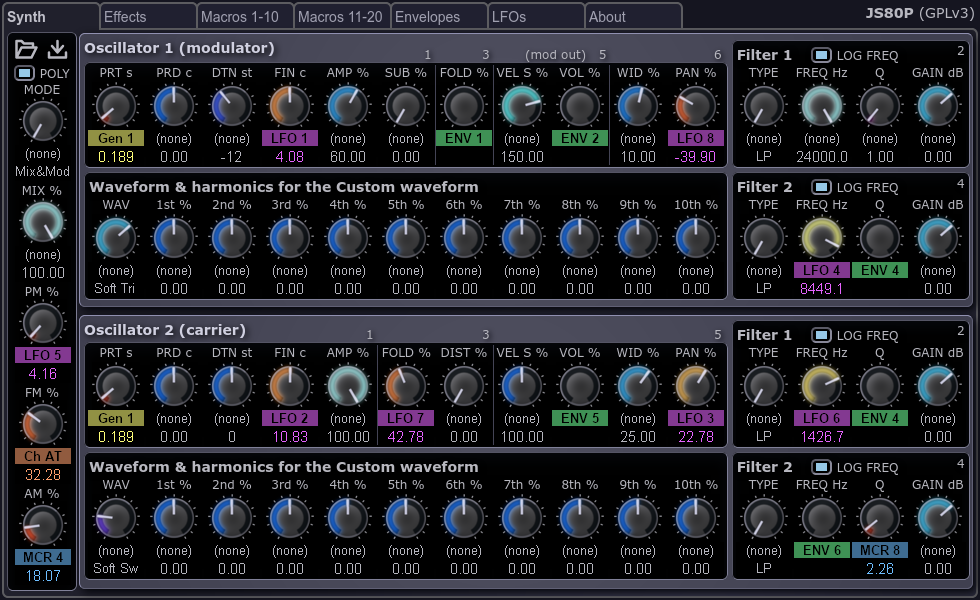
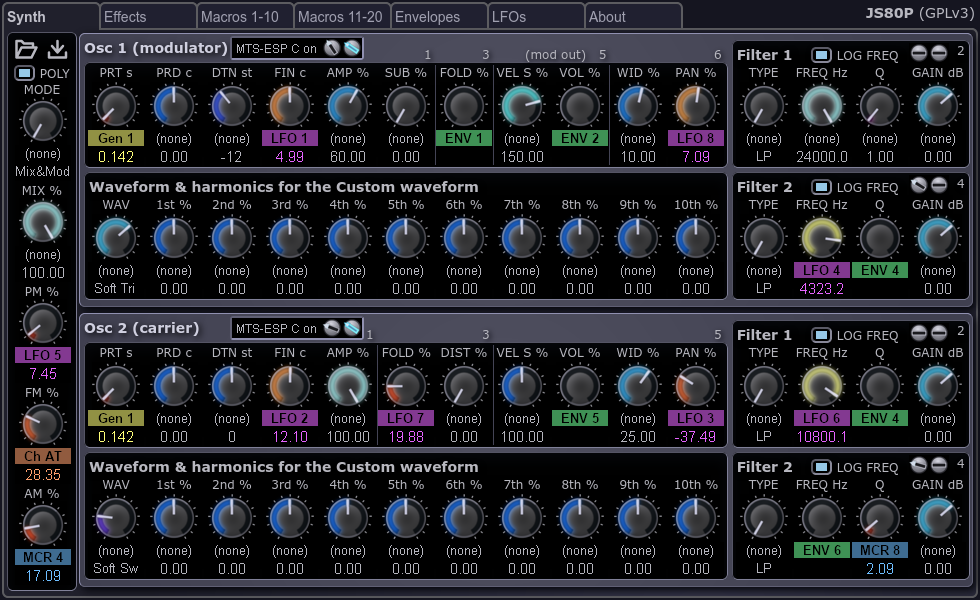
publish v2.4.0

diff --git a/index.html b/index.html
@@ -231,7 +231,7 @@ small {
     </div>
 
     <div id="download">
-      <h2 class="center">Download (v2.3.2)</h2>
+      <h2 class="center">Download (v2.4.0)</h2>
       <div class="section">
         <p class="center">
           <a href="#faq-which">Which distribution should I download?</a>
@@ -245,27 +245,27 @@ small {
               <h4>Windows and Linux, 64 bit</h4>
               <ul>
                 <li>
-                  VST 3 Bundle: <a href="https://github.com/attilammagyar/js80p/releases/download/v2.3.2/js80p-2_3_2-avx-vst3_bundle.zip">Download (3.5M)</a>
+                  VST 3 Bundle: <a href="https://github.com/attilammagyar/js80p/releases/download/v2.4.0/js80p-2_4_0-avx-vst3_bundle.zip">Download (3.9M)</a>
                 </li>
               </ul>
 
               <h4>Windows</h4>
               <ul>
                 <li>
-                  64-bit, VST 3 Single File: <a href="https://github.com/attilammagyar/js80p/releases/download/v2.3.2/js80p-2_3_2-windows-64bit-avx-vst3_single_file.zip">Download (2.0M)</a>
+                  64-bit, VST 3 Single File: <a href="https://github.com/attilammagyar/js80p/releases/download/v2.4.0/js80p-2_4_0-windows-64bit-avx-vst3_single_file.zip">Download (2.2M)</a>
                 </li>
                 <li>
-                  64-bit, FST (VST 2.4): <a href="https://github.com/attilammagyar/js80p/releases/download/v2.3.2/js80p-2_3_2-windows-64bit-avx-fst.zip">Download (1.8M)</a>
+                  64-bit, FST (VST 2.4): <a href="https://github.com/attilammagyar/js80p/releases/download/v2.4.0/js80p-2_4_0-windows-64bit-avx-fst.zip">Download (2.0M)</a>
                 </li>
               </ul>
 
               <h4>Linux</h4>
               <ul>
                 <li>
-                  64-bit, VST 3 Single File: <a href="https://github.com/attilammagyar/js80p/releases/download/v2.3.2/js80p-2_3_2-linux-64bit-avx-vst3_single_file.zip">Download (1.4M)</a>
+                  64-bit, VST 3 Single File: <a href="https://github.com/attilammagyar/js80p/releases/download/v2.4.0/js80p-2_4_0-linux-64bit-avx-vst3_single_file.zip">Download (1.6M)</a>
                 </li>
                 <li>
-                  64-bit, FST (VST 2.4): <a href="https://github.com/attilammagyar/js80p/releases/download/v2.3.2/js80p-2_3_2-linux-64bit-avx-fst.zip">Download (1.2M)</a>
+                  64-bit, FST (VST 2.4): <a href="https://github.com/attilammagyar/js80p/releases/download/v2.4.0/js80p-2_4_0-linux-64bit-avx-fst.zip">Download (1.4M)</a>
                 </li>
               </ul>
             </div>
@@ -278,39 +278,39 @@ small {
               <h4>Windows and Linux, 64 bit and 32 bit</h4>
               <ul>
                 <li>
-                  VST 3 Bundle: <a href="https://github.com/attilammagyar/js80p/releases/download/v2.3.2/js80p-2_3_2-sse2-vst3_bundle.zip">Download (8.0M)</a>
+                  VST 3 Bundle: <a href="https://github.com/attilammagyar/js80p/releases/download/v2.4.0/js80p-2_4_0-sse2-vst3_bundle.zip">Download (9.0M)</a>
                 </li>
               </ul>
 
               <h4>Windows</h4>
               <ul>
                 <li>
-                  64-bit, VST 3 Single File: <a href="https://github.com/attilammagyar/js80p/releases/download/v2.3.2/js80p-2_3_2-windows-64bit-sse2-vst3_single_file.zip">Download (2.0M)</a>
+                  64-bit, VST 3 Single File: <a href="https://github.com/attilammagyar/js80p/releases/download/v2.4.0/js80p-2_4_0-windows-64bit-sse2-vst3_single_file.zip">Download (2.3M)</a>
                 </li>
                 <li>
-                  64-bit, FST (VST 2.4): <a href="https://github.com/attilammagyar/js80p/releases/download/v2.3.2/js80p-2_3_2-windows-64bit-sse2-fst.zip">Download (1.8M)</a>
+                  64-bit, FST (VST 2.4): <a href="https://github.com/attilammagyar/js80p/releases/download/v2.4.0/js80p-2_4_0-windows-64bit-sse2-fst.zip">Download (2.0M)</a>
                 </li>
                 <li>
-                  32-bit, VST 3 Single File: <a href="https://github.com/attilammagyar/js80p/releases/download/v2.3.2/js80p-2_3_2-windows-32bit-sse2-vst3_single_file.zip">Download (2.1M)</a>
+                  32-bit, VST 3 Single File: <a href="https://github.com/attilammagyar/js80p/releases/download/v2.4.0/js80p-2_4_0-windows-32bit-sse2-vst3_single_file.zip">Download (2.3M)</a>
                 </li>
                 <li>
-                  32-bit, FST (VST 2.4): <a href="https://github.com/attilammagyar/js80p/releases/download/v2.3.2/js80p-2_3_2-windows-32bit-sse2-fst.zip">Download (1.8M)</a>
+                  32-bit, FST (VST 2.4): <a href="https://github.com/attilammagyar/js80p/releases/download/v2.4.0/js80p-2_4_0-windows-32bit-sse2-fst.zip">Download (2.0M)</a>
                 </li>
               </ul>
 
               <h4>Linux</h4>
               <ul>
                 <li>
-                  64-bit, VST 3 Single File: <a href="https://github.com/attilammagyar/js80p/releases/download/v2.3.2/js80p-2_3_2-linux-64bit-sse2-vst3_single_file.zip">Download (1.4M)</a>
+                  64-bit, VST 3 Single File: <a href="https://github.com/attilammagyar/js80p/releases/download/v2.4.0/js80p-2_4_0-linux-64bit-sse2-vst3_single_file.zip">Download (1.6M)</a>
                 </li>
                 <li>
-                  64-bit, FST (VST 2.4): <a href="https://github.com/attilammagyar/js80p/releases/download/v2.3.2/js80p-2_3_2-linux-64bit-sse2-fst.zip">Download (1.2M)</a>
+                  64-bit, FST (VST 2.4): <a href="https://github.com/attilammagyar/js80p/releases/download/v2.4.0/js80p-2_4_0-linux-64bit-sse2-fst.zip">Download (1.4M)</a>
                 </li>
                 <li>
-                  32-bit, VST 3 Single File: <a href="https://github.com/attilammagyar/js80p/releases/download/v2.3.2/js80p-2_3_2-linux-32bit-sse2-vst3_single_file.zip">Download (1.4M)</a>
+                  32-bit, VST 3 Single File: <a href="https://github.com/attilammagyar/js80p/releases/download/v2.4.0/js80p-2_4_0-linux-32bit-sse2-vst3_single_file.zip">Download (1.6M)</a>
                 </li>
                 <li>
-                  32-bit, FST (VST 2.4): <a href="https://github.com/attilammagyar/js80p/releases/download/v2.3.2/js80p-2_3_2-linux-32bit-sse2-fst.zip">Download (1.2M)</a>
+                  32-bit, FST (VST 2.4): <a href="https://github.com/attilammagyar/js80p/releases/download/v2.4.0/js80p-2_4_0-linux-32bit-sse2-fst.zip">Download (1.4M)</a>
                 </li>
               </ul>
             </div>
@@ -320,12 +320,24 @@ small {
         <h3>Source Code</h3>
         <ul>
           <li>
-            Source: <a href="https://github.com/attilammagyar/js80p/releases/download/v2.3.2/js80p-2_3_2-src.zip">Download (8.0M)</a>
+            Source: <a href="https://github.com/attilammagyar/js80p/releases/download/v2.4.0/js80p-2_4_0-src.zip">Download (8.2M)</a>
           </li>
         </ul>
       </div>
 
       <div class="section">
+        <h3>What's New in v2.4.0</h3>
+        <ul>
+          <li><p>Support for microtonal and any other tunings via MTS-ESP, one-click switch
+          between 440 Hz and 432 Hz equal temperament tunings.</p></li>
+          <li><p>Analog inaccuracy and instability emulation for oscillator pitch, and
+          inaccuracy settings for filter frequency and Q factor, and envelope time and
+          level.</p></li>
+          <li><p>New presets: Gloomy Brass, Gloomy Brass Raindrops, Sawyer.</p></li>
+          <li><p>Bugfix: the typo in the label of the dynamic envelope toggle has been
+          corrected.</p></li>
+        </ul>
+
         <h3>What's New in v2.3.2</h3>
         <ul>
           <li><p>New preset: Dystopian Cathedral.</p></li>
@@ -584,6 +596,98 @@ small {
             </p>
           </li>
         </ul>
+      </div>
+
+      <div class="section">
+        <h3>Tuning</h3>
+        <p>
+          Each oscillator can be tuned separately by clicking on the tuning selector in
+          the title bar of the oscillator. The following options are available:
+        </p>
+        <ul>
+          <li>
+            <p>
+              <code>MTS-ESP C</code>: continuously query information from an MTS-ESP tuning provider
+              (usually another plugin) when at least one note is playing, and update the
+              frequency of all sounding notes that haven't reached the Release portion of
+              their volume envelopes yet, on the fly. The tuning selector displays "<code>on</code>"
+              when a tuning provider is available, and "<code>off</code>" when no tuning provider is
+              found.  In the latter case, notes will fall back to 440 Hz 12 tone equal
+              temperament.
+            </p>
+          </li>
+          <li>
+            <p>
+              <code>MTS-ESP N</code>: query tuning information from an MTS-ESP tuning provider
+              (usually another plugin) for evey <code>NOTE ON</code> MIDI event. Already sounding
+              notes are kept unchanged. The tuning selector displays "<code>on</code>" when a tuning
+              provider is available, and "<code>off</code>" when no tuning provider is found. In the
+              latter case, new notes will fall back to 440 Hz 12 tone equal temperament.
+            </p>
+          </li>
+          <li>
+            <p>
+              <code>440 12TET</code>: the usual <a href="https://en.wikipedia.org/wiki/Equal_temperament">12 tone equal temperament</a>
+              tuning, where the <code>A4</code> MIDI note is 440 Hz.
+            </p>
+          </li>
+          <li>
+            <p>
+              <code>432 12TET</code>: 12 tone equal temperament with <code>A4</code> set to 432 Hz.
+            </p>
+          </li>
+        </ul>
+        <h4>Setting up MTS-ESP on Windows</h4>
+        <p>
+          Download and install either the free <a href="https://oddsound.com/mtsespmini.php">MTS-ESP MINI</a>
+          plugin or the paid <a href="https://oddsound.com/mtsespsuite.php">MTS-ESP SUITE</a> plugin
+          by <a href="https://oddsound.com/">ODDSOUND</a>. Follow the instuctions on the website,
+          where you can also find the User Guide documentation for each product.
+        </p>
+        <p>
+          Note: it is possible to use a different tuning provider without installing any
+          of the above plugins, but you may have to manually download the <code>LIBMTS.dll</code>
+          library from the <a href="https://github.com/ODDSound/MTS-ESP/tree/main/libMTS/Win">ODDSound/MTS-ESP GitHub repository</a>,
+          and put it in a folder where Windows can find it:
+        </p>
+        <ul>
+          <li>
+            <p>On 64 bit Windows:</p>
+            <ul>
+              <li>
+                <p>
+                  put the 64 bit DLL into the <code>Program Files\Common Files\MTS-ESP</code> folder,
+                </p>
+              </li>
+              <li>
+                <p>
+                  put the 32 bit DLL into the <code>Program Files (x86)\Common Files\MTS-ESP</code>
+                  folder.
+                </p>
+              </li>
+            </ul>
+          </li>
+          <li>
+            <p>
+              On 32 bit Windows, put the 32 bit version of <code>LIBMTS.dll</code> into the
+              <code>Program Files\Common Files\MTS-ESP</code> folder.
+            </p>
+          </li>
+        </ul>
+        <h4>Setting up MTS-ESP on Linux</h4>
+        <p>
+          As of November, 2023, there is no official distribution of the MTS-ESP tuning
+          provider plugins by <a href="https://oddsound.com/">ODDSOUND</a> for Linux, however, there
+          are plugins which can act as a tuning provider, for example,
+          <a href="https://surge-synthesizer.github.io/">Surge XT</a>.
+        </p>
+        <p>
+          To use MTS-ESP, you may have to download the <code>libMTS.so</code> library from the
+          <a href="https://github.com/ODDSound/MTS-ESP/tree/main/libMTS/Linux">ODDSound/MTS-ESP GitHub repository</a>,
+          and put it in the <code>/usr/local/lib</code> directory, if it is not already installed on
+          your system. As of November, 2023, <code>libMTS.so</code> is only available for <code>x86_64</code>
+          Linux systems.
+        </p>
       </div>
 
       <div class="section">
@@ -864,6 +968,35 @@ small {
           <p>Play softly and this futuristic organ-like patch will sound smooth as butter,
           but when you start playing with more force, the sound will become angry, fat,
           and in-your-face. The mod wheel increases the level of madness.</p>
+
+          <a id="preset-gloomy-brass"></a>
+
+          <h4>Gloomy Brass</h4>
+
+          <p>Turn the mod wheel down for a soft, warm, and fat sound, turn it up for
+          brassy swells, distortion, and reverb. Aftertouch adds some harshness and
+          vibrato.</p>
+
+          <a id="preset-gloomy-brass-raindrops"></a>
+
+          <h4>Gloomy Brass Raindrops</h4>
+
+          <p>A version of Gloomy Brass where each note is followed by a raindrop after a
+          random amount of time.</p>
+
+          <a id="preset-sawyer"></a>
+
+          <h4>Sawyer</h4>
+
+          <p>Recreation of the iconic bass and lead sound from Tom Sawyer by Rush. Notes
+          below middle C will do the well-known resonance sweep and then turn into a
+          dark growl (which you can spice up with the mod wheel and some aftertouch),
+          and notes above middle C will be bright, but will lose much of their
+          brightness while doing a huge vibrato when you turn up the mod wheel or apply
+          aftertouch. (Note that this is not a split-keyboard patch, because both
+          oscillators are required to make this sound good in stereo - instead, the
+          effect is achieved through trickery with the Note controller and the
+          Distortion knob of Macro 12 and 13.)</p>
         </div>
       </div>
     </div>
@@ -919,6 +1052,16 @@ small {
             </ul>
           </li>
           <li>subharmonic sine wave for oscillator 1, distortion for oscillator 2</li>
+          <li>
+            adjustable oscillator pitch inaccuracy and instability, for analog-like
+            liveliness and warmth
+            <ul>
+              <li>
+                set the same inaccuracy or instability level for the two oscillators to
+                synchronize them within a single polyphonic voice
+              </li>
+            </ul>
+          </li>
           <li>portamento</li>
           <li>wavefolder</li>
           <li>split keyboard</li>
@@ -939,6 +1082,7 @@ small {
           </li>
           <li>6 envelopes</li>
           <li>8 low-frequency oscillators (LFO)</li>
+          <li>filter and envelope imperfection settings for analog-like feel</li>
           <li>MIDI controllers and macros</li>
           <li>channel pressure (aftertouch)</li>
           <li>MIDI learn</li>
